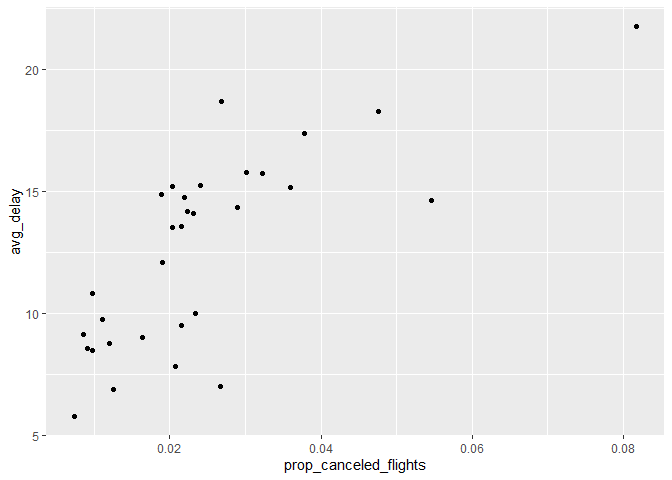
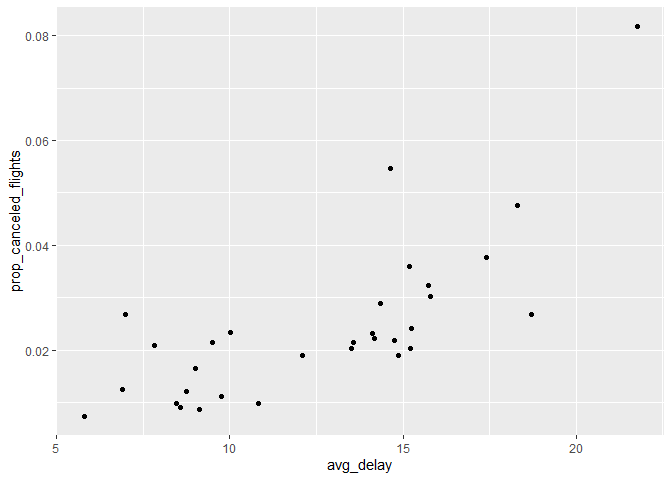
swapped the axis for the plot for question 3

diff --git a/README.md b/README.md
@@ -75,10 +75,10 @@ flights %>%
             total_flights = n(),
             canceled_flights = sum(is.na(dep_delay)),
             prop_canceled_flights = canceled_flights / total_flights) %>%
-  ggplot(aes(x = prop_canceled_flights, y = avg_delay)) + geom_point()
+  ggplot(aes(x = avg_delay, y = prop_canceled_flights)) + geom_point()
 ```
 
 ![](README_files/figure-gfm/unnamed-chunk-3-1.png)<!-- -->
 
-It seems like as proportion of canceled flights increases, so does the
-average delay.
+It seems like as average delay increases, so does the proportion of
+canceled flights.
